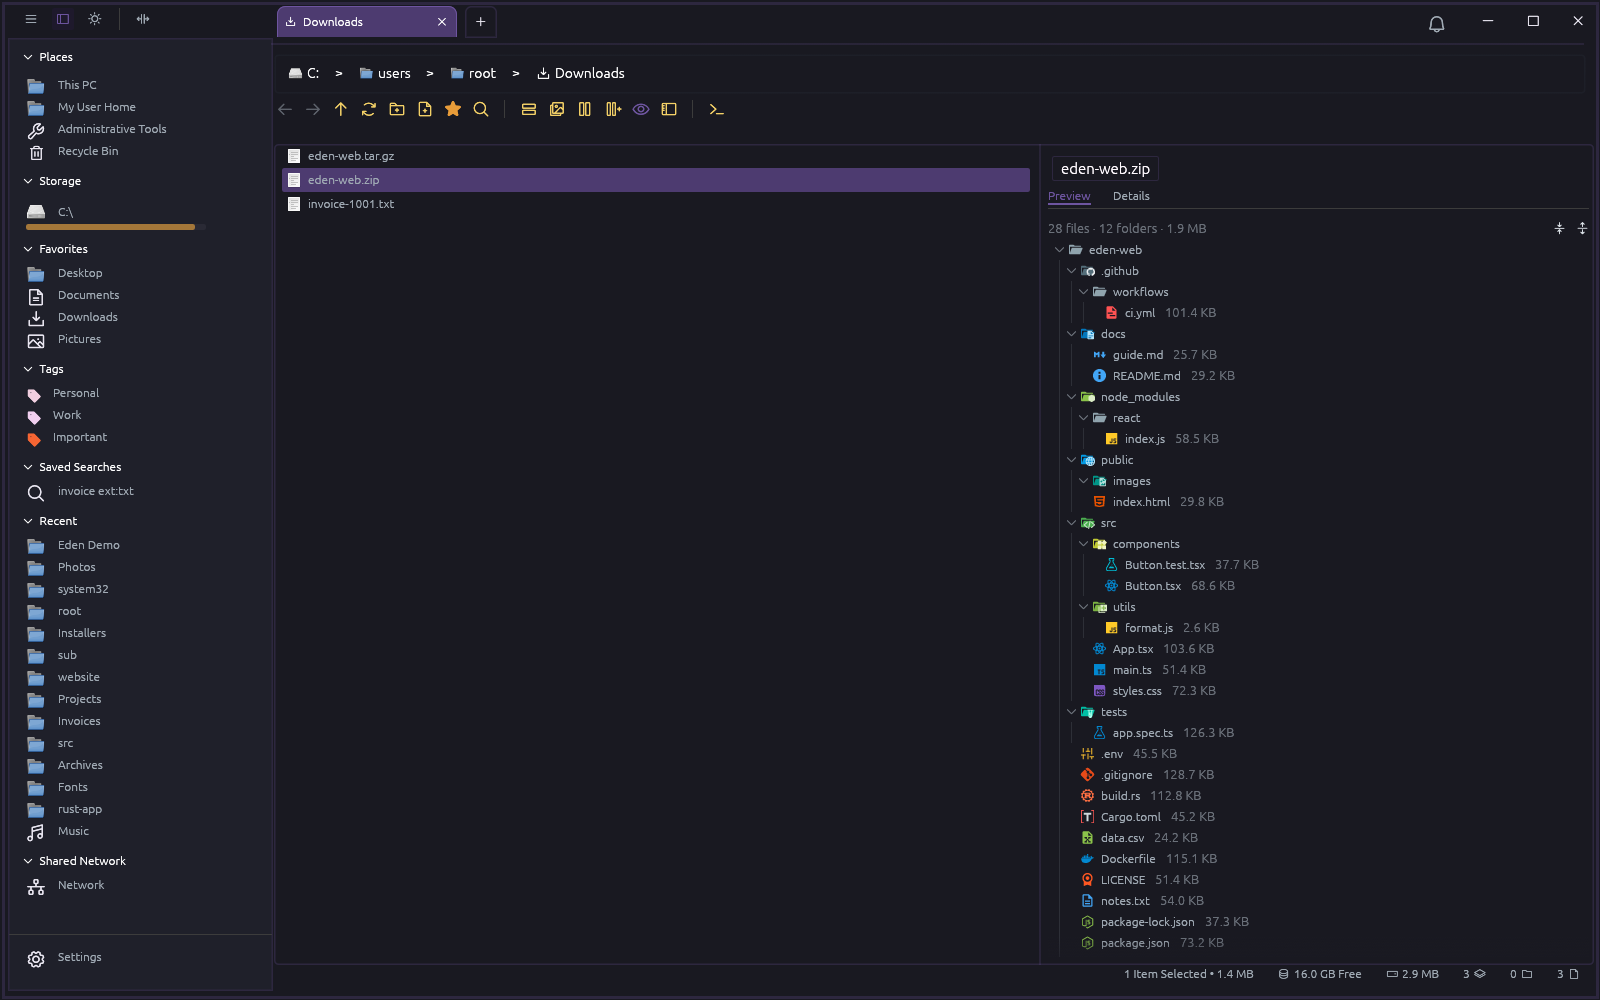
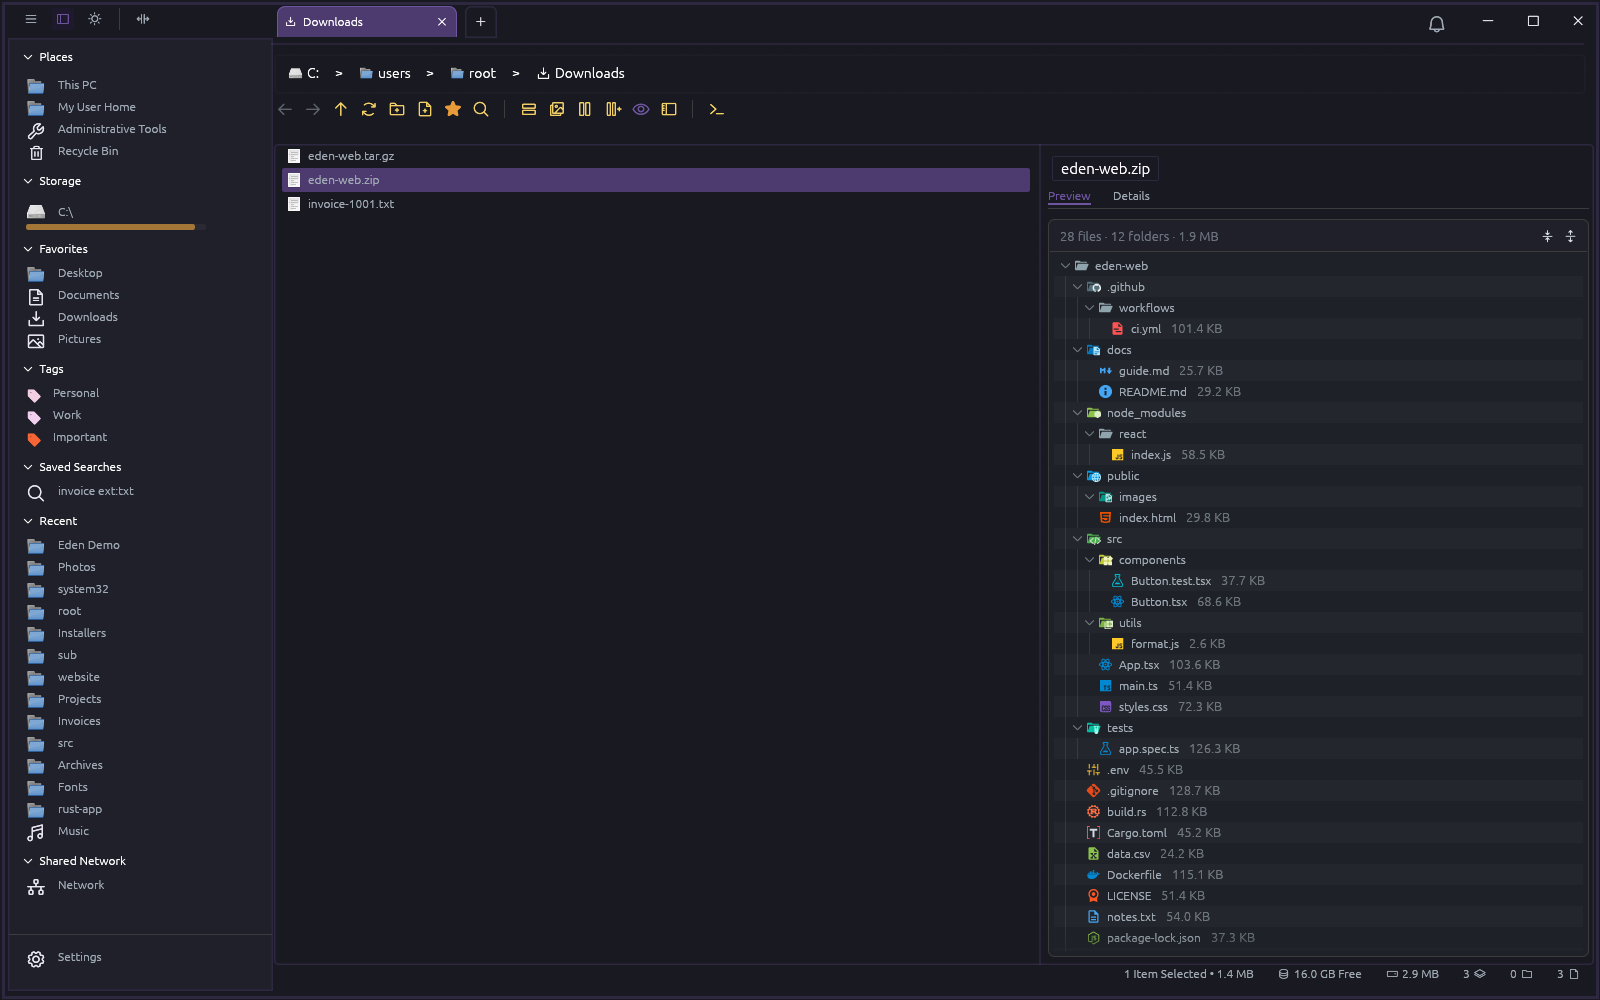
Put archive previews in a bordered panel with their own background
The archive listing now sits in a rounded, bordered panel: a header strip
with the summary and Expand/Collapse All, a divider, and the rows on the
input-field background with faint zebra stripes (both themes). The row
count is read after the header so its buttons can't leave it stale.
Screenshot 81 and the archive-preview GIF are updated.

Claude-Session: https://claude.ai/code/session_01NnbUtrCJDbJrzn3g1Wvtm7

Changed region(s): [[0.6562, 0.217, 0.7812, 0.961], [0.9688, 0.217, 1.0, 0.248]]

diff --git a/src/gui/windows/containers/itemviewer_preview.rs b/src/gui/windows/containers/itemviewer_preview.rs
@@ -1838,31 +1838,12 @@ fn draw_archive_tree(
     }
 
     let (files, folders, size) = view.totals;
-    ui.horizontal(|ui| {
-        ui.weak(
-            egui::RichText::new(format!(
-                "{files} {} · {folders} {} · {}",
-                i18n.tr("preview_archive_files"),
-                i18n.tr("preview_archive_folders"),
-                format_file_size(size)
-            ))
-            .size(palette.tooltip_text_size),
-        );
-        if folders > 0 {
-            ui.with_layout(egui::Layout::right_to_left(egui::Align::Center), |ui| {
-                let small = |icon: &str| egui::Button::new(egui::RichText::new(icon).size(palette.tooltip_text_size)).frame(false);
-                if ui.add(small(regular::ARROWS_OUT_LINE_VERTICAL)).on_hover_text(i18n.tr("preview_archive_expand_all")).clicked() {
-                    view.collapsed.clear();
-                    view.rows = None;
-                }
-                if ui.add(small(regular::ARROWS_IN_LINE_VERTICAL)).on_hover_text(i18n.tr("preview_archive_collapse_all")).clicked() {
-                    view.collapsed = entries.iter().enumerate().filter(|(_, e)| e.is_dir).map(|(i, _)| i).collect();
-                    view.rows = None;
-                }
-            });
-        }
-    });
-    ui.add_space(2.0);
+    // The listing sits in a bordered panel: a header strip with the
+    // summary and Expand/Collapse All, then the rows on their own
+    // background with faint zebra stripes.
+    let border = ui.visuals().widgets.noninteractive.bg_stroke.color;
+    let radius = palette.medium_radius.saturating_add(2);
+    let stripe_fill = ui.visuals().text_color().gamma_multiply(0.035);
 
     let text_size = palette.text_size;
     let row_height = (text_size + 9.0).round();
@@ -1874,65 +1855,114 @@ fn draw_archive_tree(
     let name_font = egui::FontId::proportional(text_size);
     let size_font = egui::FontId::proportional(palette.tooltip_text_size);
     let mut toggled = None;
-    let row_count = view.rows(entries).len();
-    egui::ScrollArea::both()
-        .id_salt("preview_pane_archive")
-        .auto_shrink([false, false])
-        .show_rows(ui, row_height, row_count, |ui, range| {
+    egui::Frame::NONE
+        .fill(palette.input_field_bg)
+        .stroke(egui::Stroke::new(1.0, border))
+        .corner_radius(egui::CornerRadius::same(radius))
+        .inner_margin(egui::Margin::same(1))
+        .show(ui, |ui| {
+            ui.set_min_size(ui.available_size());
             ui.spacing_mut().item_spacing.y = 0.0;
-            let visible = view.rows(entries)[range].to_vec();
-            for i in visible {
-                let entry = &entries[i];
-                let collapsed = view.collapsed.contains(&i);
-                let name = ui.painter().layout_no_wrap(entry.name.clone(), name_font.clone(), text_color);
-                let size_text = (!entry.is_dir)
-                    .then(|| ui.painter().layout_no_wrap(format_file_size(entry.size), size_font.clone(), weak_color));
-                let left = 4.0 + entry.depth as f32 * indent;
-                let width = left + 16.0 + icon_size + 6.0 + name.size().x + size_text.as_ref().map_or(0.0, |g| 10.0 + g.size().x) + 8.0;
-                let sense = if entry.is_dir { egui::Sense::click() } else { egui::Sense::hover() };
-                let (rect, response) = ui.allocate_exact_size(egui::vec2(width.max(ui.available_width()), row_height), sense);
-                if !ui.is_rect_visible(rect) {
-                    continue;
-                }
-                let painter = ui.painter();
-                if response.hovered() {
-                    painter.rect_filled(rect, 3.0, hover_fill);
-                }
-                // Indent guides, like VS Code's tree.
-                for level in 0..entry.depth {
-                    let x = rect.left() + 4.0 + level as f32 * indent + 7.5;
-                    painter.vline(x, rect.y_range(), egui::Stroke::new(1.0, weak_color.gamma_multiply(0.25)));
-                }
-                let mut x = rect.left() + left;
-                if entry.is_dir {
-                    let caret = if collapsed { regular::CARET_RIGHT } else { regular::CARET_DOWN };
-                    painter.text(egui::pos2(x + 7.5, rect.center().y), egui::Align2::CENTER_CENTER, caret, size_font.clone(), weak_color);
-                }
-                x += 16.0;
-                let icon = if entry.is_dir && !collapsed { entry.icon_open } else { entry.icon };
-                if let Some(image) = crate::gui::material_icons::image(ui, icon, icon_size) {
-                    let icon_rect = egui::Rect::from_min_size(egui::pos2(x, rect.center().y - icon_size / 2.0), egui::vec2(icon_size, icon_size));
-                    image.paint_at(ui, icon_rect);
-                }
-                x += icon_size + 6.0;
-                let painter = ui.painter();
-                let name_width = name.size().x;
-                painter.galley(egui::pos2(x, rect.center().y - name.size().y / 2.0), name, text_color);
-                if let Some(galley) = size_text {
-                    let pos = egui::pos2(x + name_width + 10.0, rect.center().y - galley.size().y / 2.0);
-                    painter.galley(pos, galley, weak_color);
-                }
-                if response.clicked() {
-                    toggled = Some(i);
-                }
-                if entry.is_dir {
-                    response.on_hover_cursor(egui::CursorIcon::PointingHand);
-                }
-            }
-            if truncated {
-                ui.add_space(8.0);
-                ui.weak(i18n.tr("preview_archive_truncated"));
-            }
+            let header_radius = radius.saturating_sub(1);
+            egui::Frame::NONE
+                .fill(palette.sidebar_bg_color)
+                .corner_radius(egui::CornerRadius { nw: header_radius, ne: header_radius, sw: 0, se: 0 })
+                .inner_margin(egui::Margin::symmetric(10, 6))
+                .show(ui, |ui| {
+                    ui.set_width(ui.available_width());
+                    ui.horizontal(|ui| {
+                        ui.weak(
+                            egui::RichText::new(format!(
+                                "{files} {} · {folders} {} · {}",
+                                i18n.tr("preview_archive_files"),
+                                i18n.tr("preview_archive_folders"),
+                                format_file_size(size)
+                            ))
+                            .size(palette.tooltip_text_size),
+                        );
+                        if folders > 0 {
+                            ui.with_layout(egui::Layout::right_to_left(egui::Align::Center), |ui| {
+                                let small = |icon: &str| egui::Button::new(egui::RichText::new(icon).size(palette.tooltip_text_size)).frame(false);
+                                if ui.add(small(regular::ARROWS_OUT_LINE_VERTICAL)).on_hover_text(i18n.tr("preview_archive_expand_all")).clicked() {
+                                    view.collapsed.clear();
+                                    view.rows = None;
+                                }
+                                if ui.add(small(regular::ARROWS_IN_LINE_VERTICAL)).on_hover_text(i18n.tr("preview_archive_collapse_all")).clicked() {
+                                    view.collapsed = entries.iter().enumerate().filter(|(_, e)| e.is_dir).map(|(i, _)| i).collect();
+                                    view.rows = None;
+                                }
+                            });
+                        }
+                    });
+                });
+            let line_y = ui.cursor().top();
+            ui.painter().hline(ui.max_rect().x_range(), line_y, egui::Stroke::new(1.0, border));
+            egui::Frame::NONE.inner_margin(egui::Margin::same(4)).show(ui, |ui| {
+                // Counted after the header, whose buttons can change it.
+                let row_count = view.rows(entries).len();
+                egui::ScrollArea::both()
+                    .id_salt("preview_pane_archive")
+                    .auto_shrink([false, false])
+                    .show_rows(ui, row_height, row_count, |ui, range| {
+                        ui.spacing_mut().item_spacing.y = 0.0;
+                        let first_row = range.start;
+                        let visible = view.rows(entries)[range].to_vec();
+                        for (k, i) in visible.into_iter().enumerate() {
+                            let entry = &entries[i];
+                            let collapsed = view.collapsed.contains(&i);
+                            let name = ui.painter().layout_no_wrap(entry.name.clone(), name_font.clone(), text_color);
+                            let size_text = (!entry.is_dir)
+                                .then(|| ui.painter().layout_no_wrap(format_file_size(entry.size), size_font.clone(), weak_color));
+                            let left = 4.0 + entry.depth as f32 * indent;
+                            let width = left + 16.0 + icon_size + 6.0 + name.size().x + size_text.as_ref().map_or(0.0, |g| 10.0 + g.size().x) + 8.0;
+                            let sense = if entry.is_dir { egui::Sense::click() } else { egui::Sense::hover() };
+                            let (rect, response) = ui.allocate_exact_size(egui::vec2(width.max(ui.available_width()), row_height), sense);
+                            if !ui.is_rect_visible(rect) {
+                                continue;
+                            }
+                            let painter = ui.painter();
+                            if response.hovered() {
+                                painter.rect_filled(rect, 3.0, hover_fill);
+                            } else if (first_row + k) % 2 == 1 {
+                                painter.rect_filled(rect, 0.0, stripe_fill);
+                            }
+                            // Indent guides, like VS Code's tree.
+                            for level in 0..entry.depth {
+                                let x = rect.left() + 4.0 + level as f32 * indent + 7.5;
+                                painter.vline(x, rect.y_range(), egui::Stroke::new(1.0, weak_color.gamma_multiply(0.25)));
+                            }
+                            let mut x = rect.left() + left;
+                            if entry.is_dir {
+                                let caret = if collapsed { regular::CARET_RIGHT } else { regular::CARET_DOWN };
+                                painter.text(egui::pos2(x + 7.5, rect.center().y), egui::Align2::CENTER_CENTER, caret, size_font.clone(), weak_color);
+                            }
+                            x += 16.0;
+                            let icon = if entry.is_dir && !collapsed { entry.icon_open } else { entry.icon };
+                            if let Some(image) = crate::gui::material_icons::image(ui, icon, icon_size) {
+                                let icon_rect = egui::Rect::from_min_size(egui::pos2(x, rect.center().y - icon_size / 2.0), egui::vec2(icon_size, icon_size));
+                                image.paint_at(ui, icon_rect);
+                            }
+                            x += icon_size + 6.0;
+                            let painter = ui.painter();
+                            let name_width = name.size().x;
+                            painter.galley(egui::pos2(x, rect.center().y - name.size().y / 2.0), name, text_color);
+                            if let Some(galley) = size_text {
+                                let pos = egui::pos2(x + name_width + 10.0, rect.center().y - galley.size().y / 2.0);
+                                painter.galley(pos, galley, weak_color);
+                            }
+                            if response.clicked() {
+                                toggled = Some(i);
+                            }
+                            if entry.is_dir {
+                                response.on_hover_cursor(egui::CursorIcon::PointingHand);
+                            }
+                        }
+                        if truncated {
+                            ui.add_space(8.0);
+                            ui.weak(i18n.tr("preview_archive_truncated"));
+                        }
+                    });
+            });
         });
     if let Some(i) = toggled {
         if !view.collapsed.remove(&i) {

diff --git a/README.md b/README.md
@@ -361,7 +361,7 @@ See [ROADMAP.md](ROADMAP.md) for planned and suggested features.
 - [x] **Verify after copy** - with Settings > Behavior > Verify Copies on, every finished copy is compared with its source (size, then SHA-256 of both files) in the background at low priority, and the notification ends with "Verified 3 files" or how many copies differ or are missing
 - [x] **Batch conflict rules** - the paste conflict dialog adds **Replace Only If The Pasted One Is: Newer / Larger**, which replaces only the items that are older (or smaller) than the ones being pasted and keeps the rest; Rename is now called **Keep Both** (and Keep Both For All next to Apply To All)
 - [x] **Performance fixes** - Quick Look no longer copies the folder's whole path list every frame (13 ms → under 0.1 ms per frame in a big folder), the Duplicates and Changes tabs stop re-counting and cloning their lists every frame, and listing a zip with 50,000 entries takes 0.5 s instead of 13 s (the local time zone is looked up once per hour of timestamps instead of once per entry)
-- [x] **Archive previews with VS Code file icons** - selecting an archive shows its contents in the preview pane (and Quick Look) as a tree like VS Code's explorer, with the [Material Icon Theme](https://github.com/material-extensions/vscode-material-icon-theme) icons and colors for each file type (Rust, TypeScript, React, Python, JSON, Markdown, images, ...), well-known files (package.json, README, Dockerfile, .gitignore, LICENSE, ...), and named folders (src, docs, tests, node_modules, .github, ...), with light-theme variants. Folders come first and collapse or expand on click (open and closed folder icons, indent guides), Expand All / Collapse All sit next to a files, folders, and size summary, and it now covers tar, tar.gz/.tgz, tar.bz2, tar.xz, gz, bz2, and xz as well as zip and 7z (and RAR, ISO, and CAB with 7-Zip installed). Only the rows on screen are drawn, so listings of up to 20,000 entries scroll smoothly; the 1,179 icons add about 230 KB to the app, are unpacked once off the UI thread, and each is rendered once at the screen's scale
+- [x] **Archive previews with VS Code file icons** - selecting an archive shows its contents in the preview pane (and Quick Look) as a tree like VS Code's explorer, in a bordered panel with a header strip and its own background with faint row stripes, with the [Material Icon Theme](https://github.com/material-extensions/vscode-material-icon-theme) icons and colors for each file type (Rust, TypeScript, React, Python, JSON, Markdown, images, ...), well-known files (package.json, README, Dockerfile, .gitignore, LICENSE, ...), and named folders (src, docs, tests, node_modules, .github, ...), with light-theme variants. Folders come first and collapse or expand on click (open and closed folder icons, indent guides), Expand All / Collapse All sit next to a files, folders, and size summary, and it now covers tar, tar.gz/.tgz, tar.bz2, tar.xz, gz, bz2, and xz as well as zip and 7z (and RAR, ISO, and CAB with 7-Zip installed). Only the rows on screen are drawn, so listings of up to 20,000 entries scroll smoothly; the 1,179 icons add about 230 KB to the app, are unpacked once off the UI thread, and each is rendered once at the screen's scale
 - [x] **Consistent Title Case** - buttons, menu items, headings, setting labels, and short tooltips all use Title Case; longer explanations stay as normal sentences
 
 

diff --git a/Screenshots/README.md b/Screenshots/README.md
@@ -384,6 +384,6 @@ Copying a 180 MB folder to Documents and then to Desktop: the second copy waits 
 
 ![Verified copies](80-verified.png)
 
-### Preview pane - a zip's contents as a VS Code-style tree with Material Icon Theme icons for each file type and named folder
+### Preview pane - a zip's contents in a bordered panel, as a VS Code-style tree with Material Icon Theme icons for each file type and named folder
 
 ![Archive preview with file icons](81-archive-preview-icons.png)
